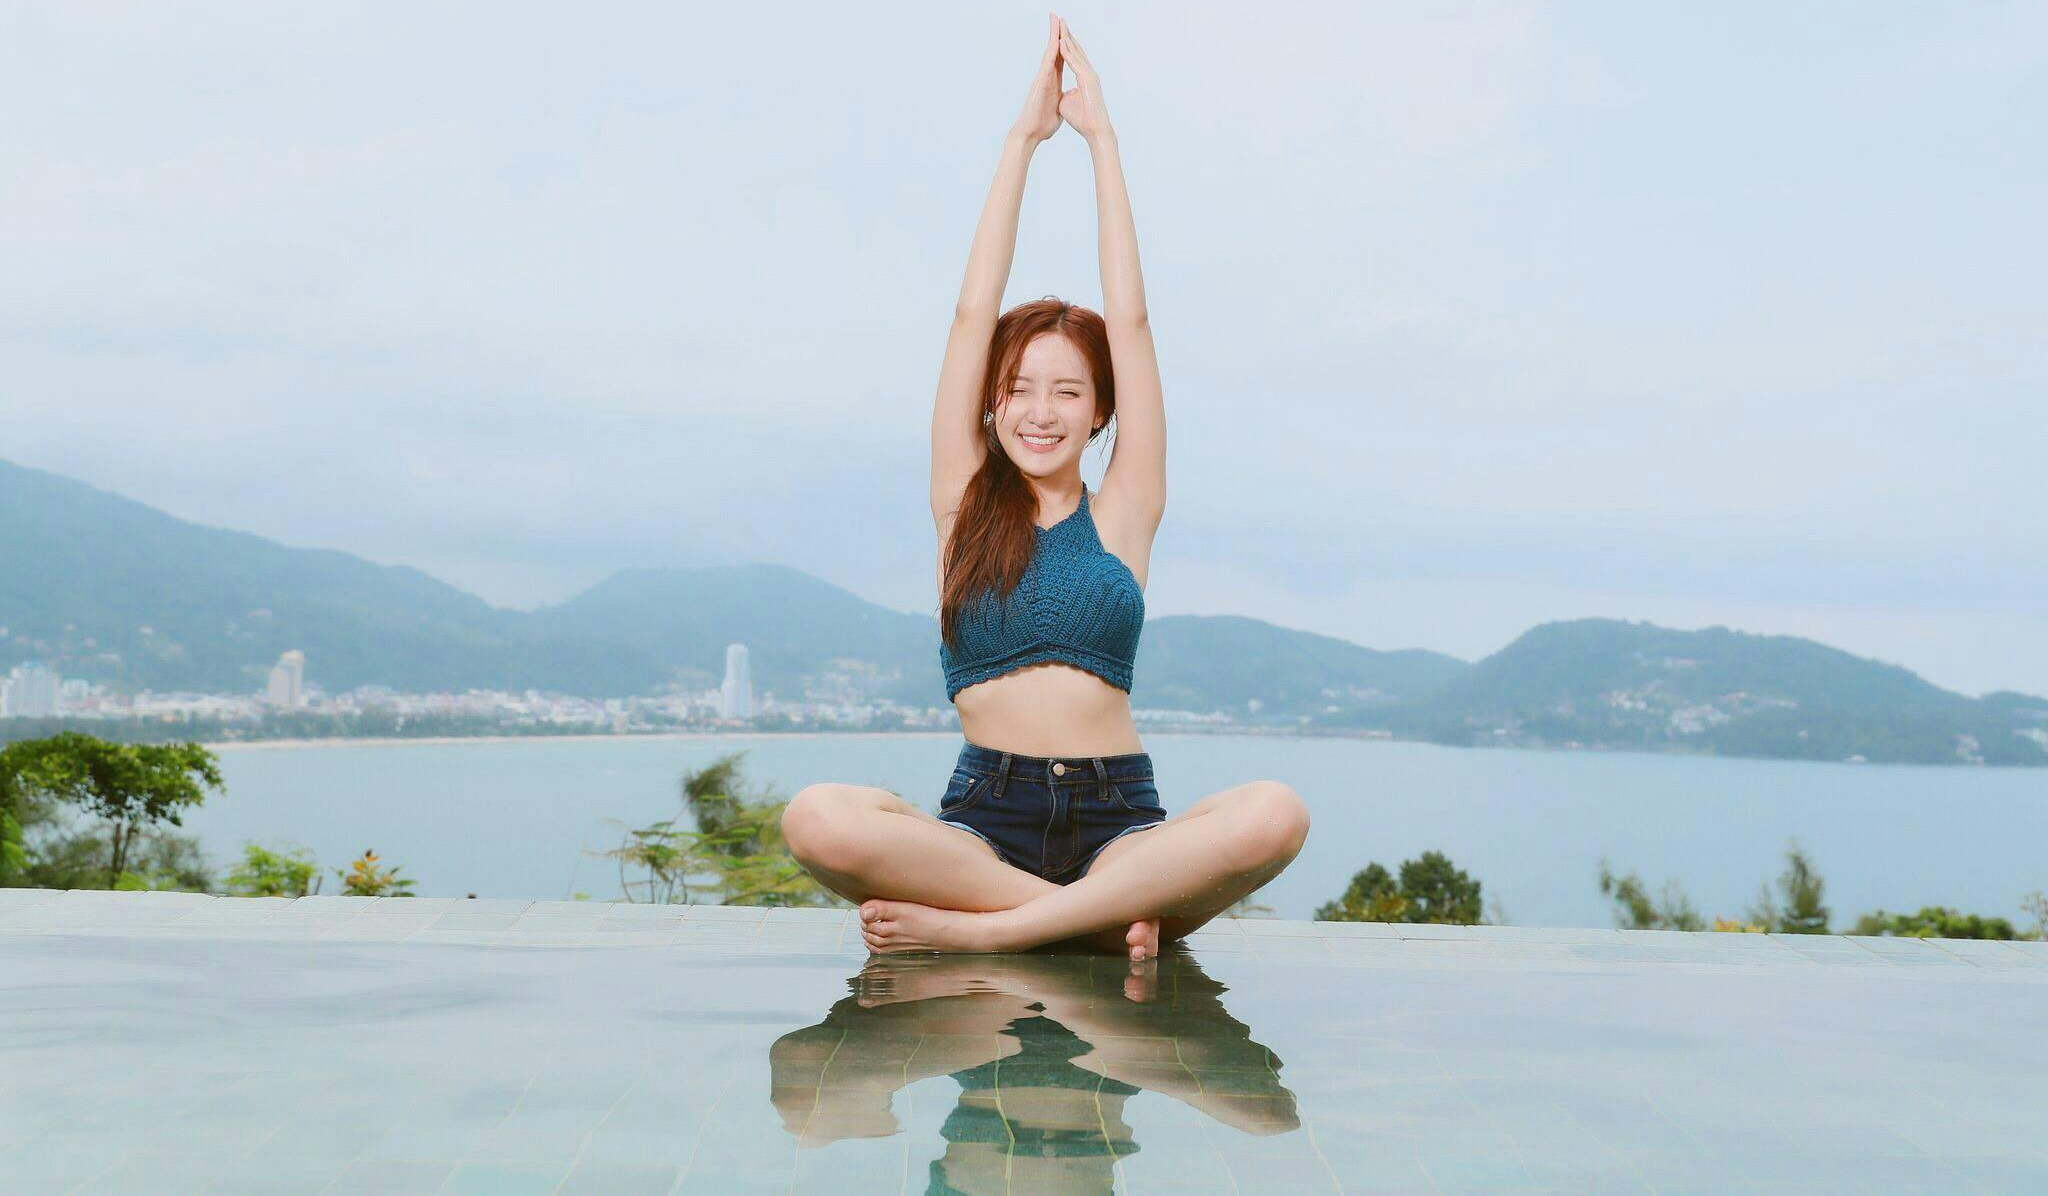
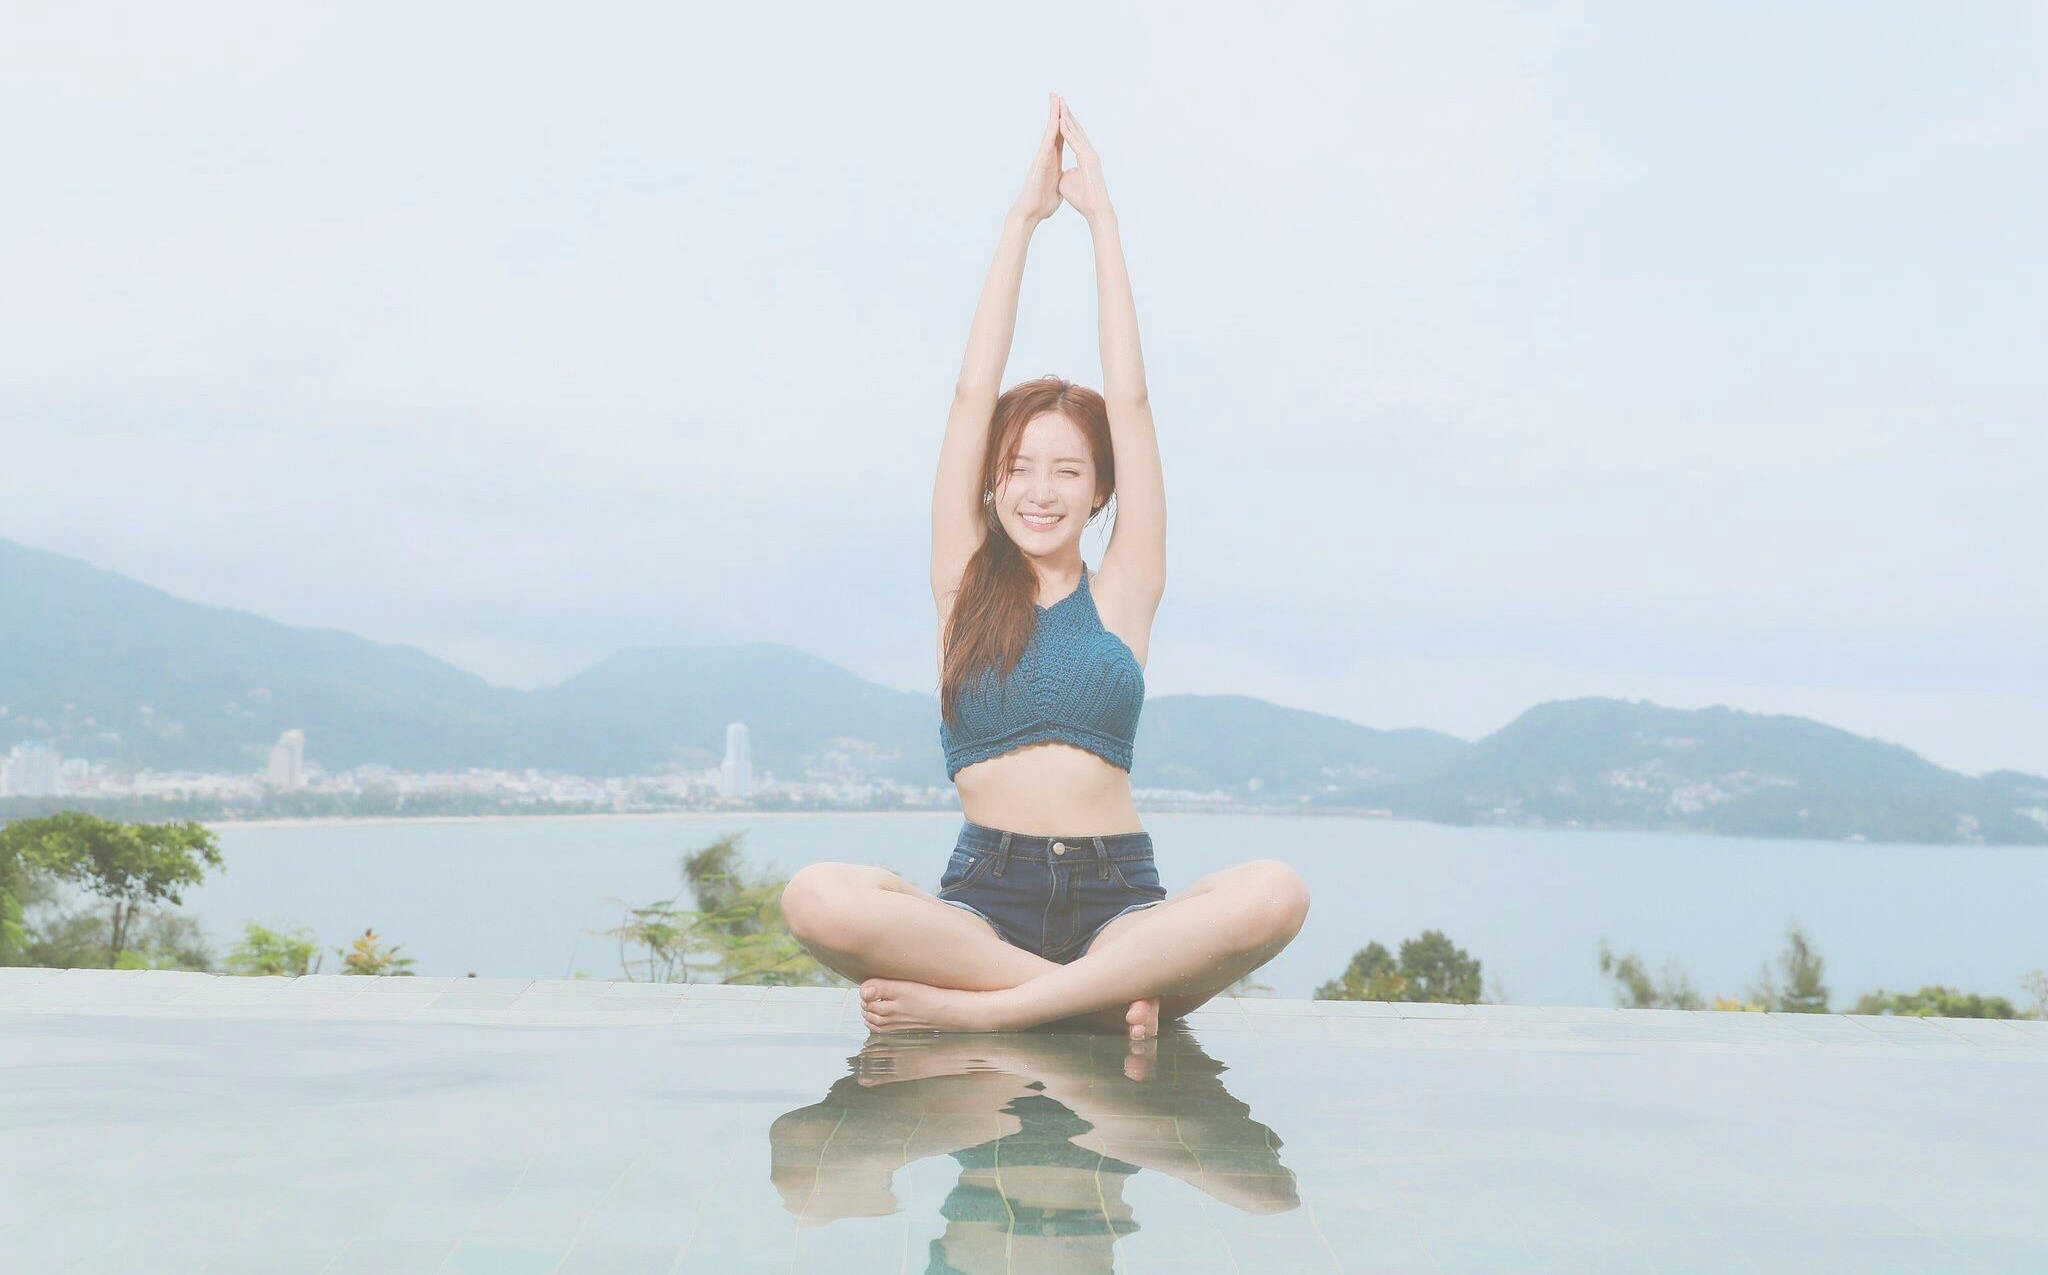
123

diff --git a/src/components/pages/mainPage/mainPage.jsx b/src/components/pages/mainPage/mainPage.jsx
@@ -1,7 +1,6 @@
 import React from "react";
 import Footer from "../../footer/footer";
 import cl from "./mainPage.module.css";
-import mainPageWoman from "../../../images/mainPageWoman.png";
 import phone from "../../../images/phone.png";
 import pad from "../../../images/pad.png";
 import laptop from "../../../images/laptop.png";
@@ -9,12 +8,14 @@ import desktop from "../../../images/desktop.png";
 const MainPage = () => {
     return (
         <div className={cl.mainPage}>
-            <div className={cl.woman}>
-                <img src={mainPageWoman}/>
-                <div className = {cl.textOverlay}>
-                    <h1>Тренируйтесь с нами</h1>
+            <div className={cl.over}>
+                <div className={cl.woman}>
                 </div>
+                <div className = {cl.textOverlay}>
+                        <h1>Тренируйтесь с нами</h1>
+                    </div>
             </div>
+            
             <div className = {cl.splitSection}>
                 <div className = {cl.column}>
                     <div className={cl.circle}>

diff --git a/src/components/pages/mainPage/mainPage.module.css b/src/components/pages/mainPage/mainPage.module.css
@@ -9,18 +9,22 @@
     position: relative;
 }
 
-.woman{
+.over {
+    height: 800px;
+    
+    overflow: hidden;
     position: relative;
-    height: 870px;
-    background-color: white;
 }
 
-.woman img{
+.woman{
+    position: absolute;
     width: 100%;
     height: 800px;
-    opacity: 0.8;
-    margin-top: 70px;
-    
+    background-image: url(../../../images/mainPageWoman.png);
+    background-repeat: no-repeat;
+    background-attachment: fixed;
+    background-size: cover;
+    background-position: center;
 }
 
 .textOverlay{
@@ -117,6 +121,7 @@
     display:flex;
     margin: auto;
     margin-top: 50px;
+    cursor: pointer;
 }
 
 .startTrainingButton p{
